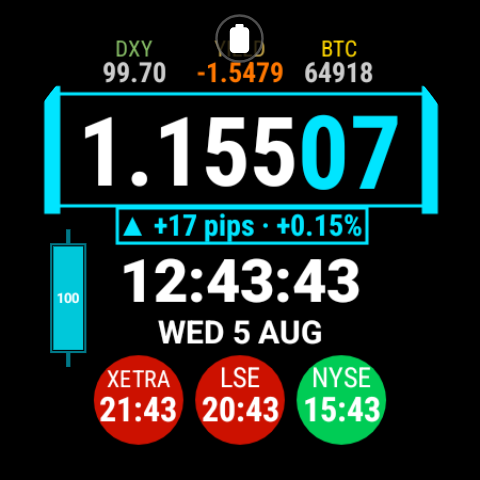
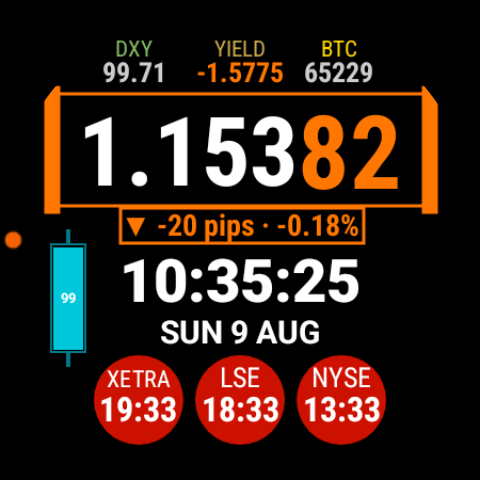
Add screenshot gallery showing the face's states
Nine screenshots captured on-device: a live hero shot (finally off the
charger, so the system charging glyph no longer covers the YIELD label),
bullish/all-open, pre-market, both alert directions, and the amber and red
battery bands.

The market-state and alert shots are staged - the real rendering code fed
fixed values via a temporary harness - because those states depend on the
time of day or on price crossing a threshold, and none of them happened to
be true during one screenshot session. Said so in the README rather than
implying they were all captured live. The hero and battery shots are real
(battery via 'dumpsys battery set level').

The harness itself was never committed: it lived only in the working tree
and has been discarded, with the watch reflashed from master and verified
showing live data again.

diff --git a/README.md b/README.md
@@ -5,10 +5,33 @@ A terminal-style forex watch face for **Wear OS 3+** (built and tested on a Sams
 Shows EUR/USD with pip-level precision, the DXY dollar index, BTC, the EUR–US 2-year yield spread, live market-session status for XETRA / LSE / NYSE, and a price alert that buzzes your wrist and flashes on screen when EUR/USD crosses a level you set.
 
 <p align="center">
-  <img src="docs/screenshots/watchface.png" width="320" alt="ForexDial watch face">
+  <img src="docs/screenshots/watchface.png" width="340" alt="ForexDial watch face">
 </p>
 
-*(The small battery glyph over the YIELD label is the system charging indicator — the watch was docked when this was taken, not part of the face.)*
+<p align="center"><em>Live, on a Galaxy Watch 7. EUR/USD down on the day — so the rate box, pip digits, pips bar and yield all read orange. Markets closed (Sunday), battery healthy.</em></p>
+
+---
+
+## What it looks like
+
+Everything is colour-coded on one convention: **cyan = up, orange = down.** One glance tells you direction without reading a number.
+
+| Bullish, all sessions open | Pre-market, all three |
+|---|---|
+| <img src="docs/screenshots/state-bullish-open.png" width="300" alt="Bullish tape with all markets open"> | <img src="docs/screenshots/state-premarket.png" width="300" alt="All three exchanges in the pre-market window"> |
+| Rate rising, so the box, pips and yield go cyan. All three dials green. | Within an hour of the open — dials amber. Tape still cyan. |
+
+| Alert fired upward | Alert fired downward |
+|---|---|
+| <img src="docs/screenshots/alert-up.png" width="300" alt="Price alert firing upward"> | <img src="docs/screenshots/alert-down.png" width="300" alt="Price alert firing downward"> |
+| Bell + cyan arrow, flashing once a second. Europe open, New York still shut. | Orange arrow for a downward cross. London closed, New York open, Frankfurt post-close. |
+
+| Battery 20–50% | Battery under 20% |
+|---|---|
+| <img src="docs/screenshots/battery-amber.png" width="300" alt="Battery candle in the amber band"> | <img src="docs/screenshots/battery-low.png" width="300" alt="Battery candle in the red band"> |
+| The candle turns amber and the fill drops with the charge. | Red below 20%. Wick, body and fill all shift together. |
+
+<sub>The market-state and alert shots are staged — the same rendering code fed fixed values, so a single screenshot session could show states that depend on the time of day or on price crossing a threshold. The hero image above and the battery shots are live.</sub>
 
 ---
 
@@ -99,13 +122,9 @@ Long-press the watch face → swipe to **ForexDial** → tap to select.
   <img src="docs/screenshots/phone-app.png" width="260" alt="Phone app with a price alert armed">
 </p>
 
-When EUR/USD **crosses** that level in either direction, the watch buzzes twice and a flashing bell + direction arrow appears on the right of the clock:
+When EUR/USD **crosses** that level in either direction, the watch buzzes twice and a flashing bell + direction arrow appears on the right of the clock — see [the alert shots above](#what-it-looks-like).
 
-<p align="center">
-  <img src="docs/screenshots/alert-firing.png" width="320" alt="Watch face with a price alert firing">
-</p>
-
-**Tap the icon on the watch to clear it.** The arrow shows the direction of the *crossing*, so it can legitimately point down while the pips bar shows ▲ — as in the shot above.
+**Tap the icon on the watch to clear it.** The arrow shows the direction of the *crossing*, not the current tick — so it can legitimately point down while the pips bar shows ▲.
 
 It fires on the *crossing*, not on merely being past the level — so it alerts once per crossing rather than nagging every sync for as long as price stays beyond your threshold. Clearing it is permanent for that crossing: dismiss it and it stays gone until price crosses again. Leave the field blank or `0` to disable.
 
